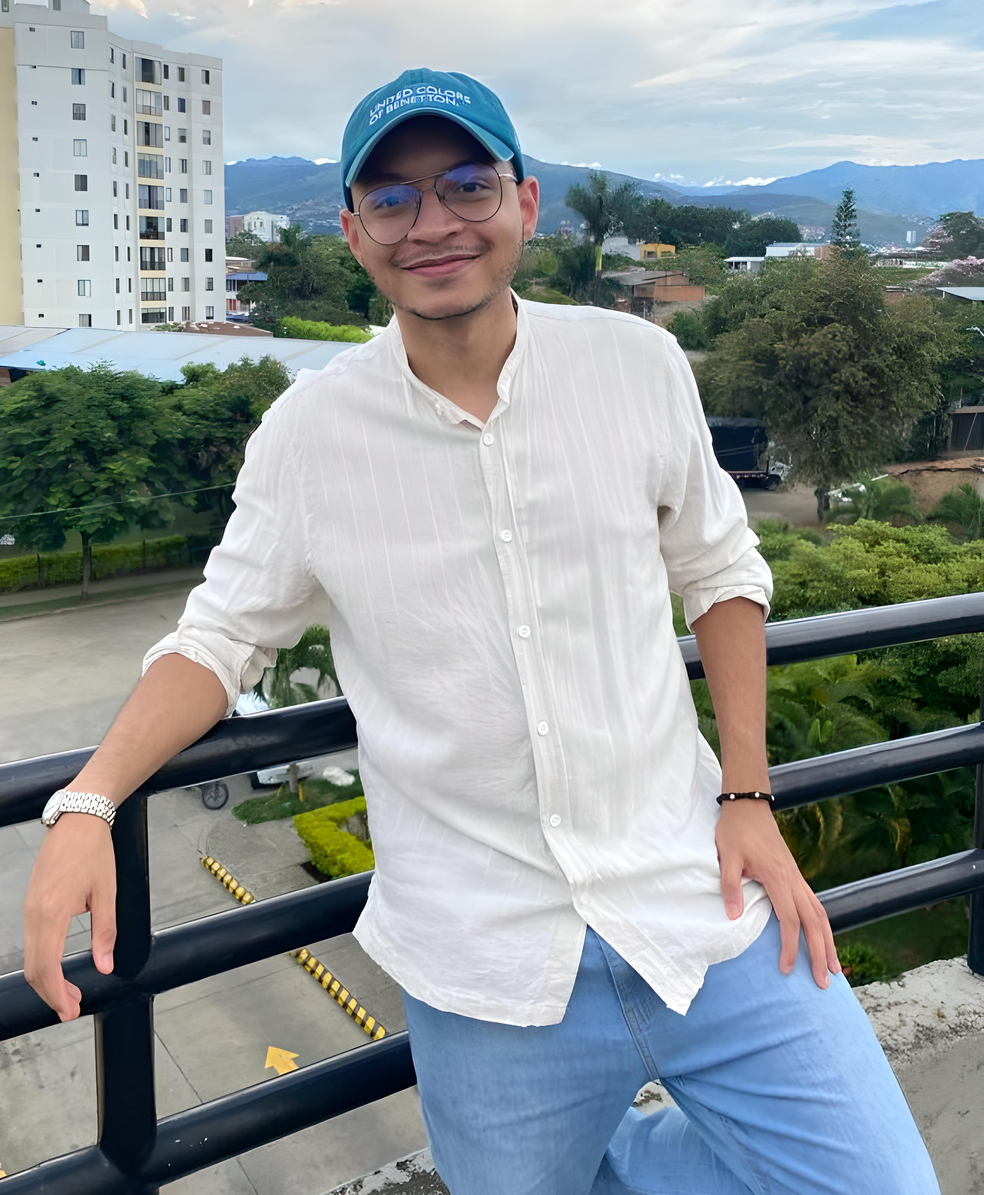
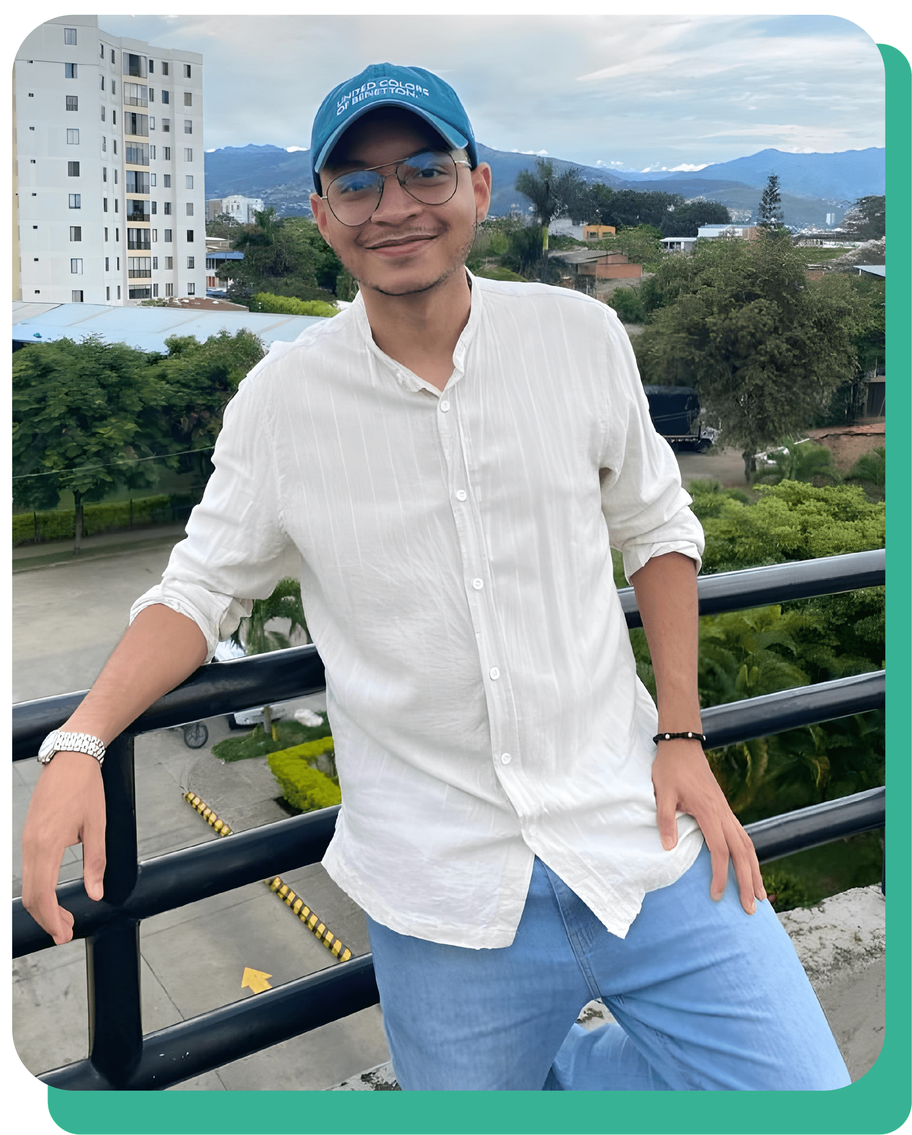
New image

diff --git a/components/Main.jsx b/components/Main.jsx
@@ -99,8 +99,7 @@ export default function Main() {
                         </div>
                     </div>
                 </div>
-                <div className='w-full items-center relative'>
-                        <div className='bg-[#089C7E] shadow-2xl w-[95%] h-[100%] rounded-xl absolute right-0 top-3 z-[-1]'> s</div>
+                <div className='w-full items-center relative'>                      
                     <div className='w-[95%] h-[90%] object-cover z-1 overflow-hidden rounded-xl'>
                         <Image src={imageMain} alt='Image of Carlos Caceres' />
                     </div>
